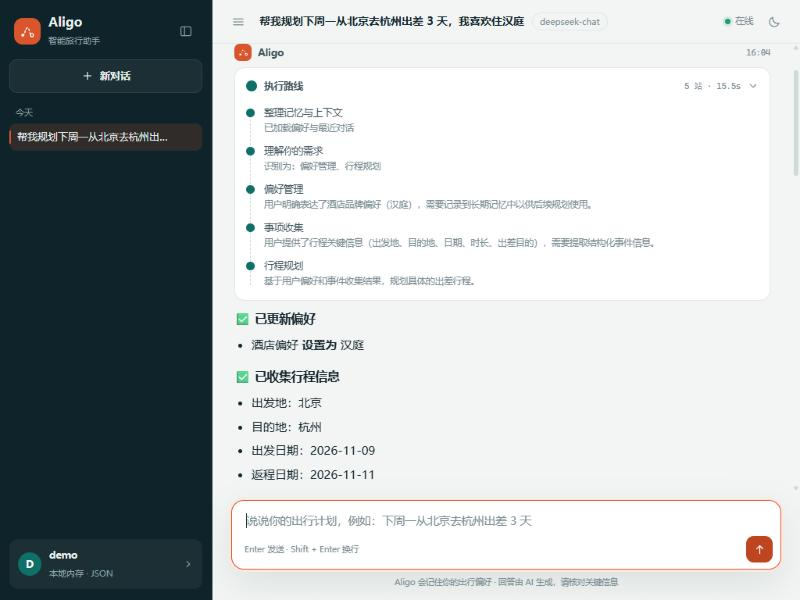
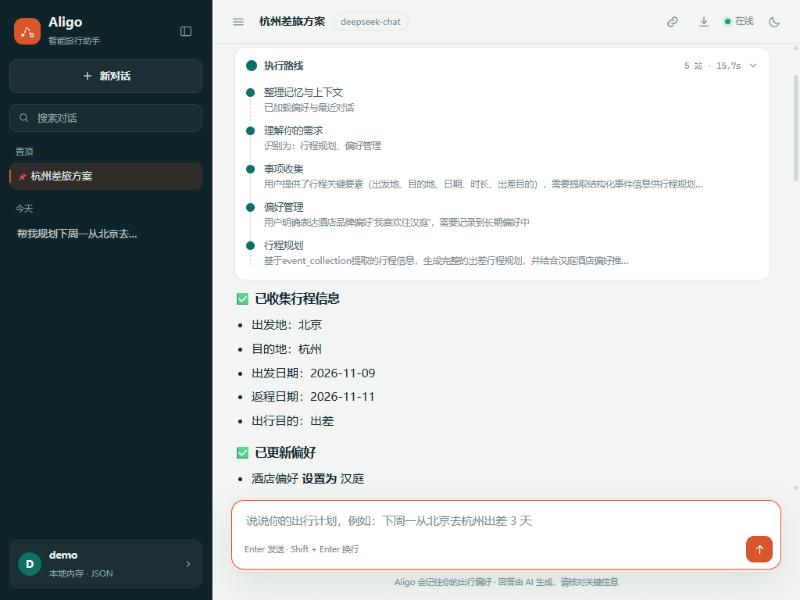
docs: 更新界面截图（搜索 / 置顶 / 用量面板）

diff --git a/README.md b/README.md
@@ -13,11 +13,11 @@
 | 对话与执行路线（浅色） | 深色模式 |
 |---|---|
 | ![对话与执行路线](docs/screenshots/webui-answer-light.jpg) | ![深色模式](docs/screenshots/webui-answer-dark.jpg) |
-| **执行中的智能体路线**（SSE 实时推送） | **欢迎页** |
-| ![执行路线](docs/screenshots/webui-trace.jpg) | ![欢迎页](docs/screenshots/webui-welcome.jpg) |
+| **记忆与用量面板**（偏好 / 行程 / 7 天趋势） | **欢迎页**（会话搜索 / 置顶） |
+| ![记忆与用量面板](docs/screenshots/webui-memory.jpg) | ![欢迎页](docs/screenshots/webui-welcome.jpg) |
 
 界面为 **FastAPI + 无构建前端**（原生 HTML / CSS / JS，无需 Node），支持流式执行进度、
-会话历史、深浅主题与移动端布局，启动方式见「Web 界面」小节。
+会话搜索 / 重命名 / 置顶、记忆与用量面板、深浅主题与移动端布局，启动方式见「Web 界面」小节。
 
 ## ✨ 核心亮点
 
